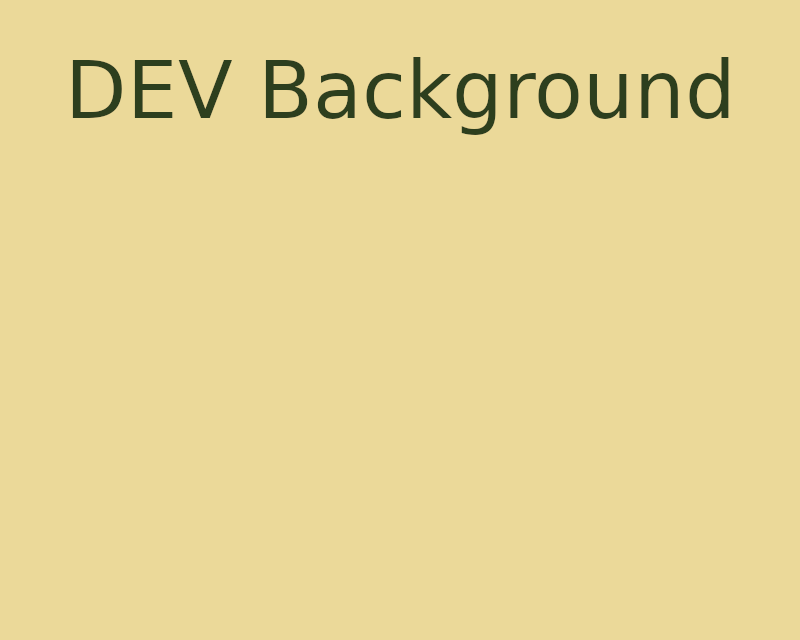
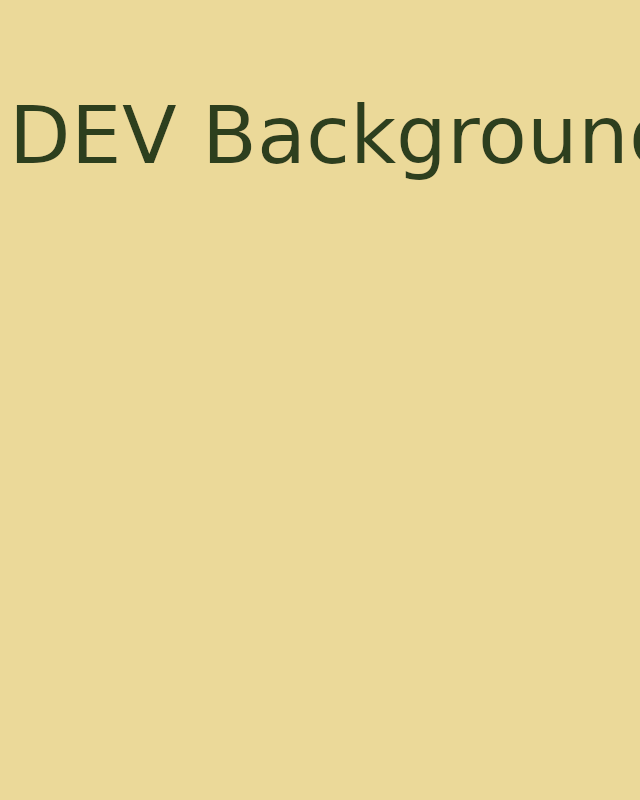
fix screen resolution switch

Changed region(s): [[0.0, 0.0938, 1.0, 0.25]]

diff --git a/web/style.css b/web/style.css
@@ -16,8 +16,8 @@ body {
 }
 
 .wrapper {
-    width: 800px;
-    height: 640px;
+    width: 640px;
+    height: 800px;
     margin: auto;
 }
 

diff --git a/src/lib.rs b/src/lib.rs
@@ -42,7 +42,7 @@ impl Plugin for AppPlugin {
                         canvas: Some("#bevy".to_string()),
                         fit_canvas_to_parent: true,
                         prevent_default_event_handling: true,
-                        resolution: WindowResolution::new(800.0, 640.0),
+                        resolution: WindowResolution::new(640.0, 800.0),
                         resizable: false,
                         ..default()
                     }
